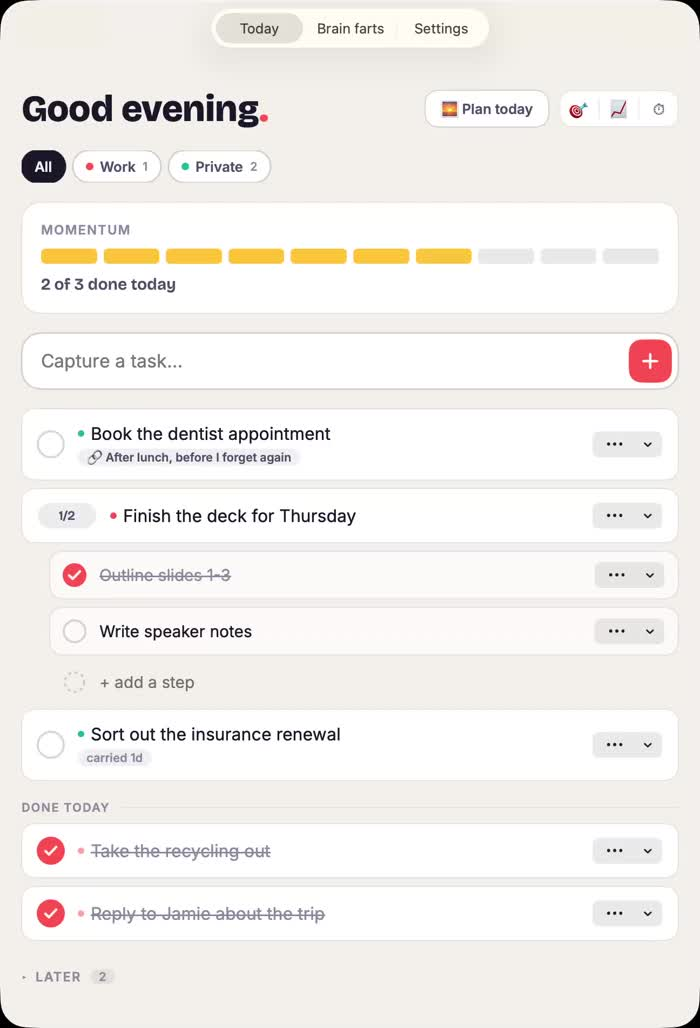
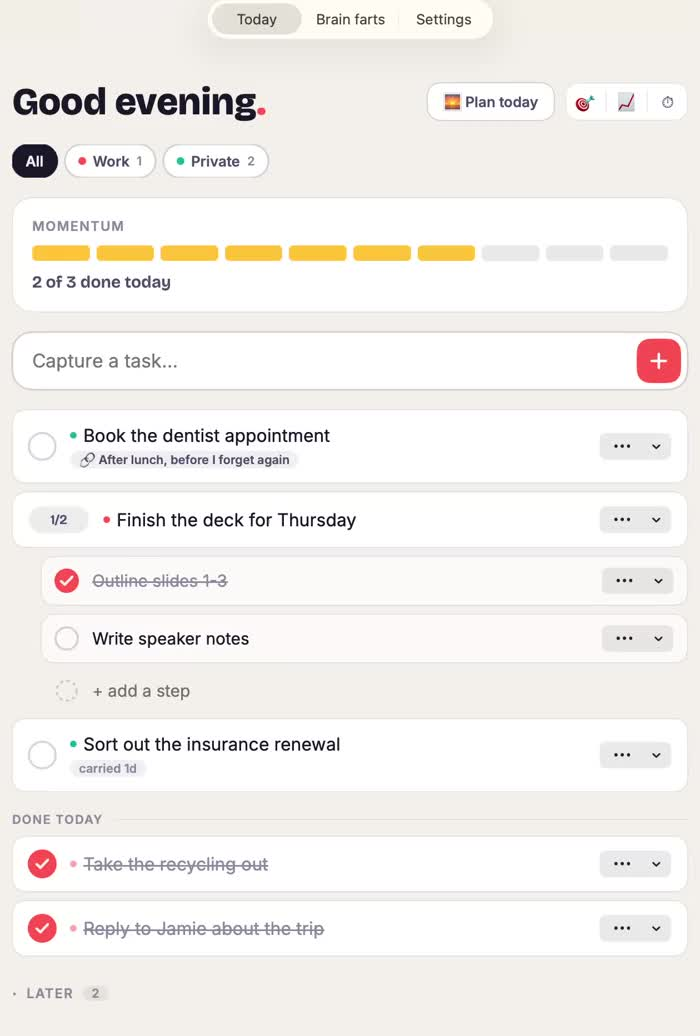
Fix black corner artifacts on demo videos, split capture clip in two
Both the hero and feature videos had faint near-black wedges at their
corners — the window/panel's own rounded-corner shadow, exposed because
the capture rectangle was a plain bounding box. Fixed with a modest
crop inset (small enough that the true corner clears the shadow
diagonally, without cropping into real content like the hero's tab bar
— an earlier, more aggressive inset traded the artifact for cutting off
too much framing).

Also re-recorded the capture-panel clip as two: one showing a to-do,
one showing a Brain Fart (via the To-do/Idea toggle), shown side by
side in the "Capture anywhere" card instead of a single cramped strip.

diff --git a/index.html b/index.html
@@ -90,11 +90,24 @@
       <div class="feature feature-wide">
         <span class="ico">⚡</span>
         <h3>Capture anywhere</h3>
-        <p>⌥Space drops a capture bar over whatever's on screen. Type it, hit enter, move on — it's on today's list before the thought finishes forming.</p>
-        <div class="feature-video-wrap">
-          <video class="feature-video" autoplay muted loop playsinline poster="media/capture-demo-poster.jpg">
-            <source src="media/capture-demo.mp4" type="video/mp4">
-          </video>
+        <p>⌥Space drops a capture bar over whatever's on screen. Type it, hit enter, move on — it's on today's list before the thought finishes forming. One toggle sends it to Brain farts instead, if it's not a task at all.</p>
+        <div class="feature-video-row">
+          <div class="feature-video-col">
+            <div class="feature-video-wrap">
+              <video class="feature-video" autoplay muted loop playsinline poster="media/capture-demo-todo-poster.jpg">
+                <source src="media/capture-demo-todo.mp4" type="video/mp4">
+              </video>
+            </div>
+            <span class="feature-video-label">A to-do</span>
+          </div>
+          <div class="feature-video-col">
+            <div class="feature-video-wrap">
+              <video class="feature-video" autoplay muted loop playsinline poster="media/capture-demo-idea-poster.jpg">
+                <source src="media/capture-demo-idea.mp4" type="video/mp4">
+              </video>
+            </div>
+            <span class="feature-video-label">A brain fart</span>
+          </div>
         </div>
         <span class="tag">⌥ SPACE</span>
       </div>

diff --git a/styles.css b/styles.css
@@ -148,11 +148,15 @@ h1,h2,h3,.display{
   color:var(--coral-dark);background:rgba(255,94,91,.1);padding:3px 9px;border-radius:999px;
 }
 .feature-wide{grid-column:1 / -1}
+.feature-video-row{display:flex;gap:16px;margin-top:16px}
+@media (max-width:640px){ .feature-video-row{flex-direction:column} }
+.feature-video-col{flex:1;min-width:0}
 .feature-video-wrap{
-  margin-top:16px;border-radius:var(--radius-sm);overflow:hidden;
-  border:1px solid var(--line);box-shadow:var(--shadow);line-height:0;max-width:640px;
+  border-radius:var(--radius-sm);overflow:hidden;
+  border:1px solid var(--line);box-shadow:var(--shadow);line-height:0;
 }
 .feature-video{display:block;width:100%;height:auto}
+.feature-video-label{display:block;margin-top:8px;font-size:12.5px;color:var(--muted);text-align:center}
 
 /* ---------- flow (real chronology → numbers justified) ---------- */
 .flow{display:flex;gap:0;align-items:stretch;max-width:960px;margin:0 auto}